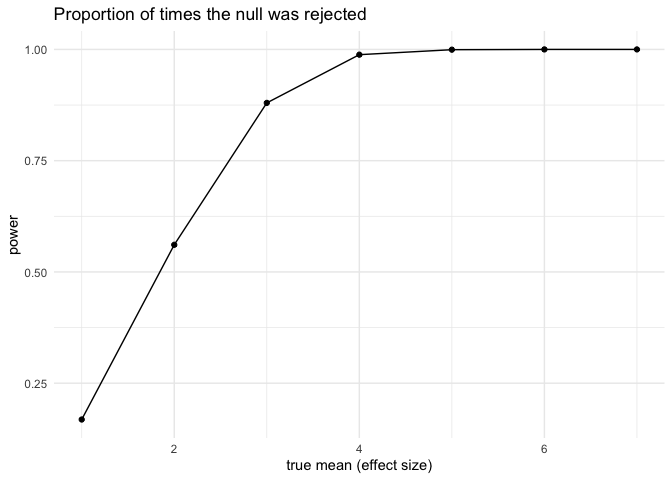
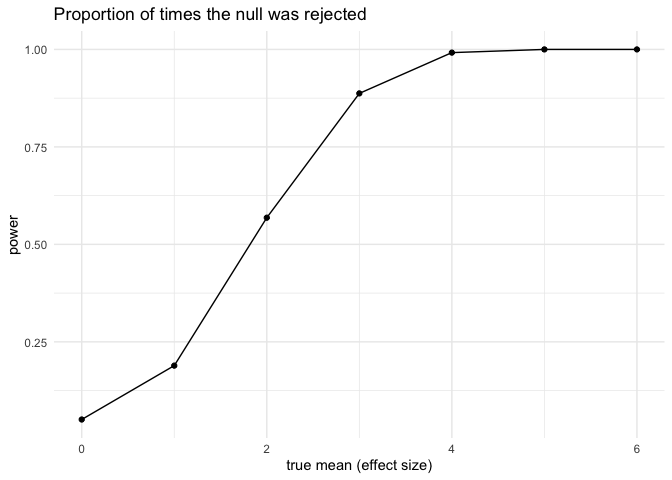
correct some mistakes

diff --git a/hw5_jl6521.md b/hw5_jl6521.md
@@ -31,42 +31,29 @@ ggplot(results, aes(x = group_size, y = prob)) +
 Comment: from the graph, we can see that as group size increases (closer
 to 50), the probability of duplicated birthday in the group increases.
 Eventually as the group size be closer to 50, the probability is closer
-to 1. \## Problem2
+to 1.
+
+## Problem2
 
 ``` r
+set.seed(1)
 sim_p_true = function(true_mean){
   data = rnorm(30, mean = true_mean, sd = 5)
   test = t.test(data, mu=0)
   result = broom::tidy(test)
   result_df = result %>% 
-    select(mu_hat = estimate, p_value = p.value) 
+    dplyr::select(mu_hat = estimate, p_value = p.value) 
   return (result_df)
 }
 
 test_results = expand_grid(
-  true_mean = 1:7,
+  true_mean = 0:6,
   iter = 1:5000
 ) %>% 
   mutate(simulation = map(true_mean, sim_p_true)) %>%
-  unnest(simulation)
-
-print(test_results)
+  unnest(simulation) %>% 
+  mutate(indicator = as.numeric(p_value < 0.05))
 ```
-
-    ## # A tibble: 35,000 × 4
-    ##    true_mean  iter  mu_hat p_value
-    ##        <int> <int>   <dbl>   <dbl>
-    ##  1         1     1  0.179   0.813 
-    ##  2         1     2  1.09    0.213 
-    ##  3         1     3  1.13    0.255 
-    ##  4         1     4  0.723   0.515 
-    ##  5         1     5  0.807   0.351 
-    ##  6         1     6  1.39    0.117 
-    ##  7         1     7  0.346   0.718 
-    ##  8         1     8 -0.0225  0.982 
-    ##  9         1     9  0.757   0.375 
-    ## 10         1    10  1.40    0.0839
-    ## # ℹ 34,990 more rows
 
 ``` r
 power_results = test_results %>%
@@ -86,7 +73,8 @@ ggplot(power_results, aes(x = true_mean, y = power)) +
 
 ![](hw5_jl6521_files/figure-gfm/2-2:%20plot%20showing%20the%20proportion%20of%20times%20the%20null%20was%20rejected-1.png)<!-- -->
 Comment: From the graph, we can see that the power increases as true
-mean increases and eventually be closer to 1.
+mean increases and eventually be closer to 1. As the effect size
+increases, the power would increase.
 
 ``` r
 average_mu_hat <- test_results %>%
@@ -110,13 +98,16 @@ ggplot(average_mu_hat, aes(x = true_mean)) +
   theme_minimal()
 ```
 
-![](hw5_jl6521_files/figure-gfm/2-3-1.png)<!-- --> Comment: the sample
-average of 𝜇̂ across tests for which the null is rejected is slightly
-larger to the all samples when the true mean is small. This is because 𝜇̂
-values are skewed towards higher estimates when we reject null
-hypothesis with larger deviation from 0.
+![](hw5_jl6521_files/figure-gfm/2-3-1.png)<!-- --> Comment: the gragh
+shows the average estimate of μ across all samples and for samples where
+the null hypothesis was rejected. Sample average of 𝜇̂ across tests for
+which the null is rejected is larger to the all samples for smaller
+effect size. This is because 𝜇̂ values are skewed towards higher
+estimates when we reject null hypothesis. Some tests might be rejected
+purely by chance. As mu increases, the power improves, and bias would be
+reduced, and the difference becomes smaller.
 
-## Problem3
+## Problem 3
 
 ``` r
 library(readr)
@@ -125,7 +116,8 @@ homicide_data = read_csv(url) %>%
   janitor::clean_names() %>% 
   mutate(
     city_state = str_c(city,", ",state)
-  ) 
+  ) %>% 
+  filter(city_state !="Tulsa, AL")
 ```
 
     ## Rows: 52179 Columns: 12
@@ -142,14 +134,71 @@ summary_homocide = homicide_data %>%
   group_by(city_state) %>% 
   summarize(
     total_homicides = n(),
-    unsolved_homicides = sum(disposition %in% c("Closed without arrest", "Open/No arrest",na.rm = TRUE)))
+    unsolved_homicides = sum(disposition %in% c("Closed without arrest", "Open/No arrest",na.rm = TRUE)))%>% 
+  filter(city_state !="Tulsa, AL")
+
+summary_homocide |> knitr::kable()
 ```
+
+| city_state         | total_homicides | unsolved_homicides |
+|:-------------------|----------------:|-------------------:|
+| Albuquerque, NM    |             378 |                146 |
+| Atlanta, GA        |             973 |                373 |
+| Baltimore, MD      |            2827 |               1825 |
+| Baton Rouge, LA    |             424 |                196 |
+| Birmingham, AL     |             800 |                347 |
+| Boston, MA         |             614 |                310 |
+| Buffalo, NY        |             521 |                319 |
+| Charlotte, NC      |             687 |                206 |
+| Chicago, IL        |            5535 |               4073 |
+| Cincinnati, OH     |             694 |                309 |
+| Columbus, OH       |            1084 |                575 |
+| Dallas, TX         |            1567 |                754 |
+| Denver, CO         |             312 |                169 |
+| Detroit, MI        |            2519 |               1482 |
+| Durham, NC         |             276 |                101 |
+| Fort Worth, TX     |             549 |                255 |
+| Fresno, CA         |             487 |                169 |
+| Houston, TX        |            2942 |               1493 |
+| Indianapolis, IN   |            1322 |                594 |
+| Jacksonville, FL   |            1168 |                597 |
+| Kansas City, MO    |            1190 |                486 |
+| Las Vegas, NV      |            1381 |                572 |
+| Long Beach, CA     |             378 |                156 |
+| Los Angeles, CA    |            2257 |               1106 |
+| Louisville, KY     |             576 |                261 |
+| Memphis, TN        |            1514 |                483 |
+| Miami, FL          |             744 |                450 |
+| Milwaukee, wI      |            1115 |                403 |
+| Minneapolis, MN    |             366 |                187 |
+| Nashville, TN      |             767 |                278 |
+| New Orleans, LA    |            1434 |                930 |
+| New York, NY       |             627 |                243 |
+| Oakland, CA        |             947 |                508 |
+| Oklahoma City, OK  |             672 |                326 |
+| Omaha, NE          |             409 |                169 |
+| Philadelphia, PA   |            3037 |               1360 |
+| Phoenix, AZ        |             914 |                504 |
+| Pittsburgh, PA     |             631 |                337 |
+| Richmond, VA       |             429 |                113 |
+| Sacramento, CA     |             376 |                139 |
+| San Antonio, TX    |             833 |                357 |
+| San Bernardino, CA |             275 |                170 |
+| San Diego, CA      |             461 |                175 |
+| San Francisco, CA  |             663 |                336 |
+| Savannah, GA       |             246 |                115 |
+| St. Louis, MO      |            1677 |                905 |
+| Stockton, CA       |             444 |                266 |
+| Tampa, FL          |             208 |                 95 |
+| Tulsa, OK          |             583 |                193 |
+| Washington, DC     |            1345 |                589 |
 
 Comment: The dataset provides *r nrows(homicide_data)* criminal
 homicides over the past decade in 50 of the largest American cities.
 There are report dates, demographic information of victim name, race,
 age, and sex, location information of city, state, and latitude and
-longitude, as well as the whether an arrest was made.
+longitude, as well as the whether an arrest was made. Tulsa, AL is
+deleted because of the data entry error.
 
 ``` r
 baltimore_data <- summary_homocide %>%
@@ -161,16 +210,15 @@ prop_test_result = prop.test(
   n = baltimore_data %>% pull(total_homicides)) %>% 
   broom::tidy()
 
-result_prop_df = prop_test_result %>% 
-    select(estimate, conf.low, conf.high)
+#result_prop_df = prop_test_result %>% 
+ #   select(estimate, conf.low, conf.high)
 
-print(result_prop_df)
+prop_test_result %>% knitr::kable()
 ```
 
-    ## # A tibble: 1 × 3
-    ##   estimate conf.low conf.high
-    ##      <dbl>    <dbl>     <dbl>
-    ## 1    0.646    0.628     0.663
+|  estimate | statistic | p.value | parameter |  conf.low | conf.high | method                                               | alternative |
+|----------:|----------:|--------:|----------:|----------:|----------:|:-----------------------------------------------------|:------------|
+| 0.6455607 |   239.011 |       0 |         1 | 0.6275625 | 0.6631599 | 1-sample proportions test with continuity correction | two.sided   |
 
 ``` r
 prop_test_function <- function(unsolved, total) {
@@ -186,44 +234,74 @@ prop_test_results <- summary_homocide %>%
   ) %>%
   unnest(test_summary) %>%
   rename(proportion = estimate)
+
+prop_test_results %>% knitr::kable()
 ```
 
-    ## Warning: There was 1 warning in `mutate()`.
-    ## ℹ In argument: `test_summary = map2(unsolved_homicides, total_homicides,
-    ##   prop_test_function)`.
-    ## Caused by warning in `prop.test()`:
-    ## ! Chi-squared approximation may be incorrect
-
-``` r
-print(prop_test_results)
-```
-
-    ## # A tibble: 51 × 6
-    ##    city_state   total_homicides unsolved_homicides proportion conf.low conf.high
-    ##    <chr>                  <int>              <int>      <dbl>    <dbl>     <dbl>
-    ##  1 Albuquerque…             378                146      0.386    0.337     0.438
-    ##  2 Atlanta, GA              973                373      0.383    0.353     0.415
-    ##  3 Baltimore, …            2827               1825      0.646    0.628     0.663
-    ##  4 Baton Rouge…             424                196      0.462    0.414     0.511
-    ##  5 Birmingham,…             800                347      0.434    0.399     0.469
-    ##  6 Boston, MA               614                310      0.505    0.465     0.545
-    ##  7 Buffalo, NY              521                319      0.612    0.569     0.654
-    ##  8 Charlotte, …             687                206      0.300    0.266     0.336
-    ##  9 Chicago, IL             5535               4073      0.736    0.724     0.747
-    ## 10 Cincinnati,…             694                309      0.445    0.408     0.483
-    ## # ℹ 41 more rows
+| city_state         | total_homicides | unsolved_homicides | proportion |  conf.low | conf.high |
+|:-------------------|----------------:|-------------------:|-----------:|----------:|----------:|
+| Albuquerque, NM    |             378 |                146 |  0.3862434 | 0.3372604 | 0.4375766 |
+| Atlanta, GA        |             973 |                373 |  0.3833505 | 0.3528119 | 0.4148219 |
+| Baltimore, MD      |            2827 |               1825 |  0.6455607 | 0.6275625 | 0.6631599 |
+| Baton Rouge, LA    |             424 |                196 |  0.4622642 | 0.4141987 | 0.5110240 |
+| Birmingham, AL     |             800 |                347 |  0.4337500 | 0.3991889 | 0.4689557 |
+| Boston, MA         |             614 |                310 |  0.5048860 | 0.4646219 | 0.5450881 |
+| Buffalo, NY        |             521 |                319 |  0.6122841 | 0.5687990 | 0.6540879 |
+| Charlotte, NC      |             687 |                206 |  0.2998544 | 0.2660820 | 0.3358999 |
+| Chicago, IL        |            5535 |               4073 |  0.7358627 | 0.7239959 | 0.7473998 |
+| Cincinnati, OH     |             694 |                309 |  0.4452450 | 0.4079606 | 0.4831439 |
+| Columbus, OH       |            1084 |                575 |  0.5304428 | 0.5002167 | 0.5604506 |
+| Dallas, TX         |            1567 |                754 |  0.4811742 | 0.4561942 | 0.5062475 |
+| Denver, CO         |             312 |                169 |  0.5416667 | 0.4846098 | 0.5976807 |
+| Detroit, MI        |            2519 |               1482 |  0.5883287 | 0.5687903 | 0.6075953 |
+| Durham, NC         |             276 |                101 |  0.3659420 | 0.3095874 | 0.4260936 |
+| Fort Worth, TX     |             549 |                255 |  0.4644809 | 0.4222542 | 0.5072119 |
+| Fresno, CA         |             487 |                169 |  0.3470226 | 0.3051013 | 0.3913963 |
+| Houston, TX        |            2942 |               1493 |  0.5074779 | 0.4892447 | 0.5256914 |
+| Indianapolis, IN   |            1322 |                594 |  0.4493192 | 0.4223156 | 0.4766207 |
+| Jacksonville, FL   |            1168 |                597 |  0.5111301 | 0.4820460 | 0.5401402 |
+| Kansas City, MO    |            1190 |                486 |  0.4084034 | 0.3803996 | 0.4370054 |
+| Las Vegas, NV      |            1381 |                572 |  0.4141926 | 0.3881284 | 0.4407395 |
+| Long Beach, CA     |             378 |                156 |  0.4126984 | 0.3629026 | 0.4642973 |
+| Los Angeles, CA    |            2257 |               1106 |  0.4900310 | 0.4692208 | 0.5108754 |
+| Louisville, KY     |             576 |                261 |  0.4531250 | 0.4120609 | 0.4948235 |
+| Memphis, TN        |            1514 |                483 |  0.3190225 | 0.2957047 | 0.3432691 |
+| Miami, FL          |             744 |                450 |  0.6048387 | 0.5685783 | 0.6400015 |
+| Milwaukee, wI      |            1115 |                403 |  0.3614350 | 0.3333172 | 0.3905194 |
+| Minneapolis, MN    |             366 |                187 |  0.5109290 | 0.4585150 | 0.5631099 |
+| Nashville, TN      |             767 |                278 |  0.3624511 | 0.3285592 | 0.3977401 |
+| New Orleans, LA    |            1434 |                930 |  0.6485356 | 0.6231048 | 0.6731615 |
+| New York, NY       |             627 |                243 |  0.3875598 | 0.3494421 | 0.4270755 |
+| Oakland, CA        |             947 |                508 |  0.5364308 | 0.5040588 | 0.5685037 |
+| Oklahoma City, OK  |             672 |                326 |  0.4851190 | 0.4467861 | 0.5236245 |
+| Omaha, NE          |             409 |                169 |  0.4132029 | 0.3653146 | 0.4627477 |
+| Philadelphia, PA   |            3037 |               1360 |  0.4478103 | 0.4300380 | 0.4657157 |
+| Phoenix, AZ        |             914 |                504 |  0.5514223 | 0.5184825 | 0.5839244 |
+| Pittsburgh, PA     |             631 |                337 |  0.5340729 | 0.4942706 | 0.5734545 |
+| Richmond, VA       |             429 |                113 |  0.2634033 | 0.2228571 | 0.3082658 |
+| Sacramento, CA     |             376 |                139 |  0.3696809 | 0.3211559 | 0.4209131 |
+| San Antonio, TX    |             833 |                357 |  0.4285714 | 0.3947772 | 0.4630331 |
+| San Bernardino, CA |             275 |                170 |  0.6181818 | 0.5576628 | 0.6753422 |
+| San Diego, CA      |             461 |                175 |  0.3796095 | 0.3354259 | 0.4258315 |
+| San Francisco, CA  |             663 |                336 |  0.5067873 | 0.4680516 | 0.5454433 |
+| Savannah, GA       |             246 |                115 |  0.4674797 | 0.4041252 | 0.5318665 |
+| St. Louis, MO      |            1677 |                905 |  0.5396541 | 0.5154369 | 0.5636879 |
+| Stockton, CA       |             444 |                266 |  0.5990991 | 0.5517145 | 0.6447418 |
+| Tampa, FL          |             208 |                 95 |  0.4567308 | 0.3881009 | 0.5269851 |
+| Tulsa, OK          |             583 |                193 |  0.3310463 | 0.2932349 | 0.3711192 |
+| Washington, DC     |            1345 |                589 |  0.4379182 | 0.4112495 | 0.4649455 |
 
 ``` r
 ggplot(prop_test_results, aes(x = reorder(city_state, -proportion), y = proportion)) +
   geom_point() +
-  geom_errorbar(aes(ymin = conf.low, ymax = conf.high), width = 0.3) +
-  coord_flip() +
+  geom_errorbar(aes(ymin = conf.low, ymax = conf.high)) +
   labs(
     title = "Proportion of unsolved homicides by city",
     x = "City",
     y = "Proportion of unsolved homicides"
   ) +
-  theme_minimal()
+  theme_minimal()+
+  theme(axis.text.x = element_text(angle = 90, hjust = 1))
 ```
 
 ![](hw5_jl6521_files/figure-gfm/plot-1.png)<!-- -->
